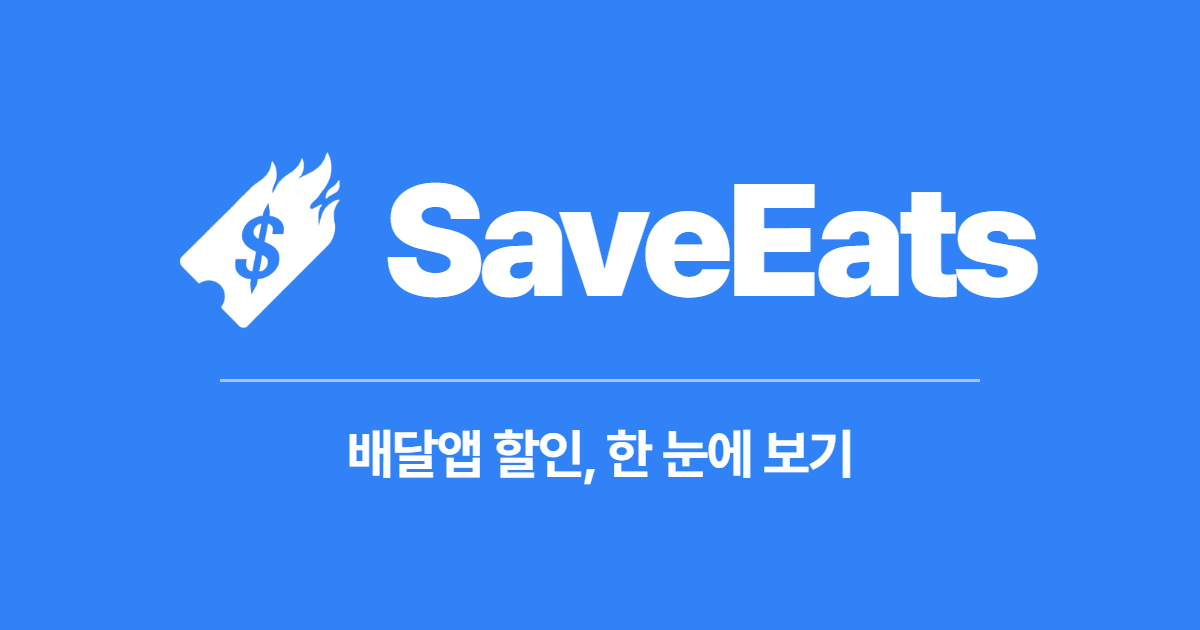
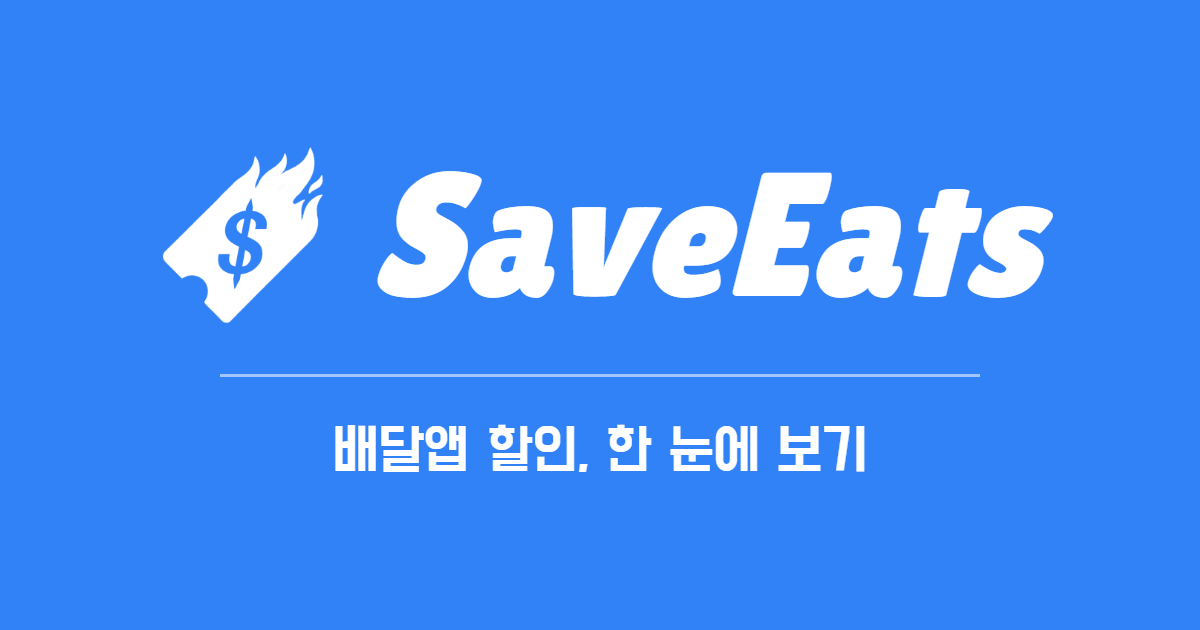
[WEB] feat: 서비스 이름을 SaveEats로 통일, 배너 글꼴 교체
Claude-Session: https://claude.ai/code/session_01Ar5REjpbSup3DXLBGwWgCC

diff --git a/web/index.html b/web/index.html
@@ -10,7 +10,7 @@
     <meta name="description" content="배민, 쿠팡이츠, 요기요, 땡겨요의 브랜드 할인 쿠폰을 매일 모아 비교합니다. 치킨, 피자, 카페 브랜드의 최고 할인과 최소주문 금액을 앱마다 보여 주고, 당일 한정 특가와 선착순 쿠폰, 배민클럽, 쿠팡와우, 요기패스 멤버십 할인까지 한곳에서 찾을 수 있습니다." />
     <meta name="theme-color" content="#171717" />
     <meta name="apple-mobile-web-app-capable" content="yes" />
-    <meta name="apple-mobile-web-app-title" content="배달할인" />
+    <meta name="apple-mobile-web-app-title" content="SaveEats" />
     <link rel="manifest" href="/manifest.webmanifest" />
     <link rel="icon" type="image/png" sizes="48x48" href="/favicon-48.png" />
     <link rel="icon" type="image/png" sizes="192x192" href="/favicon-192.png" />
@@ -33,7 +33,7 @@
          도메인에 두고(jsdelivr 원본에서 display만 바꿈) 첫 페인트를 막지 않게 받는다. -->
     <link rel="preload" as="style" href="/fonts/pretendard-optional.css" onload="this.onload=null;this.rel='stylesheet'" />
     <noscript><link rel="stylesheet" href="/fonts/pretendard-optional.css" /></noscript>
-    <title>배달앱 할인모음 - 배민, 쿠팡이츠, 요기요, 땡겨요 최고 할인 쿠폰 비교</title>
+    <title>SaveEats - 한 눈에 보는 배달앱 할인</title>
     <!-- 홈 카드 A/B(#291): 갈래가 B로 저장된 방문(home_arm, homeExperiment.js가 저장)은 서버가 그린 운영 카드(A)를 첫 화면 전에
          숨긴다. A가 보였다 B로 바뀌는 깜박임을 막는 것이다. main.jsx가 그릴 준비가 되면 풀고, 3초 안에 못 풀어도 여기서 푼다. -->
     <style>html[data-home-wait] #root{visibility:hidden}</style>

diff --git a/web/public/about/index.html b/web/public/about/index.html
@@ -3,12 +3,12 @@
 <head>
   <meta charset="UTF-8" />
   <meta name="viewport" content="width=device-width, initial-scale=1" />
-  <title>서비스 소개 - 배달앱 할인모음</title>
+  <title>서비스 소개 - SaveEats</title>
   <meta name="description" content="배민, 쿠팡이츠, 요기요, 땡겨요에서 지금 받을 수 있는 가장 큰 할인을 브랜드별로 모았습니다." />
   <link rel="canonical" href="https://beggars-five.vercel.app/about" />
   <meta property="og:type" content="website" />
-  <meta property="og:site_name" content="배달앱 할인모음" />
-  <meta property="og:title" content="서비스 소개 - 배달앱 할인모음" />
+  <meta property="og:site_name" content="SaveEats" />
+  <meta property="og:title" content="서비스 소개 - SaveEats" />
   <meta property="og:description" content="배달앱 네 곳의 할인을 브랜드별로 한 화면에서 비교해요." />
   <meta property="og:url" content="https://beggars-five.vercel.app/about" />
   <meta property="og:locale" content="ko_KR" />
@@ -295,7 +295,7 @@
    <div class="pg" id="pg" aria-hidden="true"></div>
    <div class="track">
     <section class="slide slide--shot" id="s1">
-      <a class="brand" href="/?home=b"><img class="brand__logo" alt="" src="/favicon-48.png" width="24" height="24" /><span class="brand__name">배달앱 할인모음</span></a>
+      <a class="brand" href="/?home=b"><img class="brand__logo" alt="" src="/favicon-48.png" width="24" height="24" /><span class="brand__name">SaveEats</span></a>
       <div class="slide__in split">
         <div>
           <h1 class="rise" style="--i:1">배달앱 할인,<br /><em>한 눈에</em> 보기</h1>

diff --git a/web/public/privacy/index.html b/web/public/privacy/index.html
@@ -3,13 +3,13 @@
 <head>
   <meta charset="UTF-8" />
   <meta name="viewport" content="width=device-width, initial-scale=1" />
-  <title>개인정보처리방침 - 배달앱 할인모음</title>
-  <meta name="description" content="배달앱 할인모음이 쓰는 방문 통계, 검색어 기록, 쿠키와 거부 방법을 안내합니다." />
+  <title>개인정보처리방침 - SaveEats</title>
+  <meta name="description" content="SaveEats가 쓰는 방문 통계, 검색어 기록, 쿠키와 거부 방법을 안내합니다." />
   <link rel="canonical" href="https://beggars-five.vercel.app/privacy" />
   <meta property="og:type" content="website" />
-  <meta property="og:site_name" content="배달앱 할인모음" />
-  <meta property="og:title" content="개인정보처리방침 - 배달앱 할인모음" />
-  <meta property="og:description" content="배달앱 할인모음이 쓰는 방문 통계, 검색어 기록, 쿠키와 거부 방법을 안내합니다." />
+  <meta property="og:site_name" content="SaveEats" />
+  <meta property="og:title" content="개인정보처리방침 - SaveEats" />
+  <meta property="og:description" content="SaveEats가 쓰는 방문 통계, 검색어 기록, 쿠키와 거부 방법을 안내합니다." />
   <meta property="og:url" content="https://beggars-five.vercel.app/privacy" />
   <meta property="og:locale" content="ko_KR" />
   <meta property="og:image" content="https://beggars-five.vercel.app/og-image.png" />

diff --git a/web/src/PushNotificationSetting.jsx b/web/src/PushNotificationSetting.jsx
@@ -352,7 +352,7 @@ export default function PushNotificationSetting({ toggleSlot }) {
             <div className="push-notification-example" aria-label="푸시 알림 예시">
               <div className="push-notification-example__sender">
                 <img src="/favicon-192.png" width="24" height="24" alt="" />
-                <span>배달앱 할인모음</span>
+                <span>SaveEats</span>
               </div>
               <strong className="push-notification-example__title">BHC 8,000원 할인이 시작되었어요!</strong>
               <p>알림을 눌러 확인하기 {'>'}</p>

diff --git a/web/src/TopBarB.jsx b/web/src/TopBarB.jsx
@@ -105,7 +105,7 @@ export default function TopBarB({ barRef, pushToggleRef, filters, setFilters, se
   return (
     <div className="title-bar title-bar--b" ref={barRef}>
       <div className="title-bar__top">
-        <h1 className="sr-only">오늘의할인: 배달앱 브랜드 할인 비교</h1>
+        <h1 className="sr-only">SaveEats: 한 눈에 보는 배달앱 할인</h1>
         <SearchControl
           value={search}
           onChange={setSearch}

diff --git a/README.md b/README.md
@@ -1,6 +1,6 @@
-# 배거스
+# SaveEats
 
-프로젝트 이름은 임시로 **배거스**다(2026-09-18). 화면(web)에는 아직 이 이름을 쓰지 않는다.
+서비스 이름은 **SaveEats**다. 저장소와 운영 도메인 이름(배거스, beggars)은 그대로다.
 
 > 배민, 쿠팡이츠, 요기요, 땡겨요의 브랜드별 할인 정보를 한곳에서 비교하는 서비스
 
